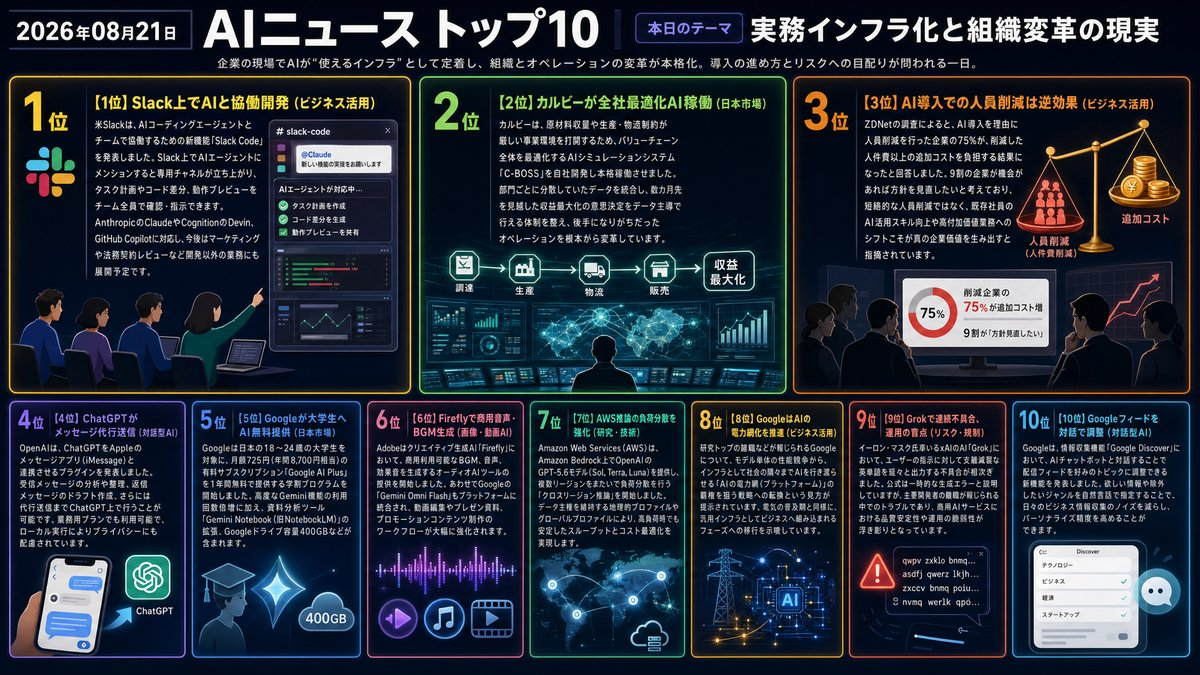
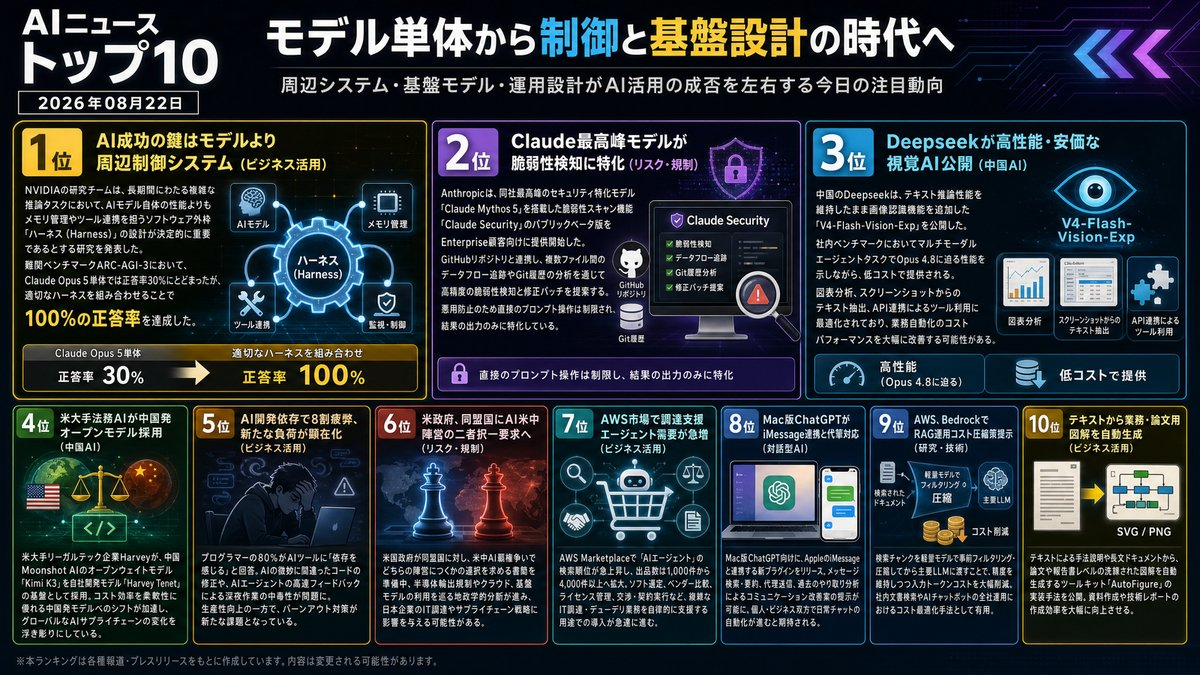
Morning Brief delivered [skip ci]

diff --git a/docs/index.html b/docs/index.html
@@ -12,16 +12,16 @@
     <!-- OGP_START -->
 <meta property="og:type" content="website">
 <meta property="og:site_name" content="AI ニュース TOP10">
-<meta property="og:title" content="実務インフラ化と組織変革の現実 | AI ニュース TOP10">
-<meta property="og:description" content="AIは単体機能から実務を支えるインフラへ進化しています。 本日のトップ: Slack上でAIと協働開発">
+<meta property="og:title" content="モデル単体から制御と基盤設計の時代へ | AI ニュース TOP10">
+<meta property="og:description" content="モデル性能競争から、周辺設計と実務適応へ重心がシフトしています。 本日のトップ: AI成功の鍵はモデルより周辺制御システム">
 <meta property="og:image" content="https://tadfuji.github.io/ai-news-bot/ogp_latest.jpg">
 <meta property="og:url" content="https://tadfuji.github.io/ai-news-bot/">
 <meta name="twitter:card" content="summary_large_image">
-<meta name="twitter:title" content="実務インフラ化と組織変革の現実 | AI ニュース TOP10">
-<meta name="twitter:description" content="AIは単体機能から実務を支えるインフラへ進化しています。">
+<meta name="twitter:title" content="モデル単体から制御と基盤設計の時代へ | AI ニュース TOP10">
+<meta name="twitter:description" content="モデル性能競争から、周辺設計と実務適応へ重心がシフトしています。">
 <meta name="twitter:image" content="https://tadfuji.github.io/ai-news-bot/ogp_latest.jpg">
-<meta name="description" content="AIは単体機能から実務を支えるインフラへ進化しています。 世界のAIニュースを毎朝日本語で厳選してお届け。">
-<script type="application/ld+json">{"@context": "https://schema.org", "@type": "ItemList", "name": "AI ニュース TOP10 — 実務インフラ化と組織変革の現実", "itemListElement": [{"@type": "ListItem", "position": 1, "name": "Slack、AIとチームで協働する「Slack Code」を発表　ClaudeやDevinを専用チャネルで操作", "url": "https://www.itmedia.co.jp/news/article/2608/21/2000000667/"}, {"@type": "ListItem", "position": 2, "name": "カルビー、AIを活用した全社最適化システム「C-BOSS」を本格稼働", "url": "https://monoist.itmedia.co.jp/mn/articles/2608/21/news046.html"}, {"@type": "ListItem", "position": 3, "name": "AIによる人員削減は逆効果？企業の75%がコスト増を実感と回答", "url": "https://www.zdnet.com/article/why-replacing-staff-with-ai-backfires-and-how-smart-leaders-generate-real-value-instead/"}, {"@type": "ListItem", "position": 4, "name": "ChatGPTにAppleメッセージ連携プラグインが登場、返信案作成や代行送信に対応", "url": "https://techcrunch.com/2026/08/20/chatgpt-can-now-send-texts-for-you-with-new-apple-messages-plugin/"}, {"@type": "ListItem", "position": 5, "name": "Googleが日本の大学生向けに「Google AI Plus」を1年間無料提供開始", "url": "https://www.gizmodo.jp/article/2df05f30-c414-480b-89f5-6a6b98d62fe4/"}, {"@type": "ListItem", "position": 6, "name": "Adobe Fireflyに音楽・音声・効果音のAI生成機能が追加、Gemini Omni Flashも統合", "url": "https://the-decoder.com/adobe-firefly-adds-ai-audio-tools-and-googles-gemini-omni-flash/"}, {"@type": "ListItem", "position": 7, "name": "AWS Bedrock、GPT-5.6モデルのリージョン間推論に対応し負荷耐性と処理性能を強化", "url": "https://aws.amazon.com/blogs/machine-learning/introducing-cross-region-inference-for-openai-gpt-5-6-models-on-amazon-bedrock/"}, {"@type": "ListItem", "position": 8, "name": "GoogleのAI戦略、「最強の知能」から社会を支える「AIの電力網」へシフトか", "url": "https://atmarkit.itmedia.co.jp/ait/articles/2608/21/news006.html"}, {"@type": "ListItem", "position": 9, "name": "xAIの「Grok」で意味不明な回答が連続する不具合が発生、LLM運用の盲点が浮き彫りに", "url": "https://www.techno-edge.net/article/2026/08/21/5410.html"}, {"@type": "ListItem", "position": 10, "name": "Google Discover、AI対話形式で好みの記事フィードを直接カスタマイズ可能に", "url": "https://www.theverge.com/tech/983088/google-discover-ai-chatbot-feed"}]}</script>
+<meta name="description" content="モデル性能競争から、周辺設計と実務適応へ重心がシフトしています。 世界のAIニュースを毎朝日本語で厳選してお届け。">
+<script type="application/ld+json">{"@context": "https://schema.org", "@type": "ItemList", "name": "AI ニュース TOP10 — モデル単体から制御と基盤設計の時代へ", "itemListElement": [{"@type": "ListItem", "position": 1, "name": "エヌビディア最新研究：AIエージェントの成否はモデル本体より「周辺制御システム（ハーネス）」で決まる", "url": "https://techcrunch.com/2026/08/21/nvidia-just-showed-that-the-harness-not-the-ai-model-is-now-the-real-hero/"}, {"@type": "ListItem", "position": 2, "name": "Anthropic、最高峰モデル「Claude Mythos 5」を企業向け脆弱性スキャナーに限定投入", "url": "https://www.marktechpost.com/2026/08/21/anthropic-brings-claude-mythos-5-to-claude-security/"}, {"@type": "ListItem", "position": 3, "name": "中国Deepseek、画像認識対応の軽量マルチモーダルモデル「V4-Flash-Vision-Exp」を公開", "url": "https://the-decoder.com/deepseek-releases-experimental-flash-vision-model-that-rivals-opus-4-8-on-agent-benchmarks/"}, {"@type": "ListItem", "position": 4, "name": "米法律AIスタートアップHarvey、中国発オープンウェイトモデル「Kimi K3」を基盤に採用", "url": "https://www.scmp.com/tech/tech-trends/article/3364827/openai-backed-legal-tech-firm-pivots-chinese-kimi-k3-open-weight-model?utm_source=rss_feed"}, {"@type": "ListItem", "position": 5, "name": "開発者の80%が「AIコーディングは依存性が高く疲弊する」と回答、新たなバーンアウトが浮き彫りに", "url": "https://www.zdnet.com/article/80-of-developers-find-ai-coding-more-addictive-than-helpful/"}, {"@type": "ListItem", "position": 6, "name": "米国政府、パートナー諸国に対しAI競争で米中いずれかの陣営選択を迫る書簡を準備", "url": "https://the-decoder.com/us-wants-to-force-partner-countries-to-choose-between-washington-and-beijing-in-the-ai-race/"}, {"@type": "ListItem", "position": 7, "name": "AWS MarketplaceでAIエージェントの需要が急増、調達やデューデリジェンスを自律化へ", "url": "https://www.zdnet.com/article/application-marketplaces-aws-ai-agents/"}, {"@type": "ListItem", "position": 8, "name": "Mac版ChatGPTにメッセージ連携プラグイン登場、会話分析や代筆が可能に", "url": "https://www.zdnet.com/article/chatgpts-new-mac-plugin-analyzed-my-imessages-and-i-found-it-surprisingly-useful/"}, {"@type": "ListItem", "position": 9, "name": "Amazon Bedrock、クエリ認識圧縮によりRAG（検索拡張生成）のコスト削減パターンを提示", "url": "https://aws.amazon.com/blogs/machine-learning/reduce-rag-costs-on-amazon-bedrock-with-query-aware-compression/"}, {"@type": "ListItem", "position": 10, "name": "テキストや論文から学術・ビジネス向け図解を自動生成するツール「AutoFigure」", "url": "https://www.marktechpost.com/2026/08/21/building-agentic-document-intelligence-pipelines-creating-scientific-figures-with-autofigure/"}]}</script>
 <!-- OGP_END -->
     <style>
         :root {
@@ -391,16 +391,16 @@
 
         <main id="news-container">
             <!-- PRERENDER_START -->
-<article class="news-card" data-category="ビジネス活用"><div style="display:flex;align-items:center;margin-bottom:5px;"><span class="news-rank">1</span><span class="news-category" data-category="ビジネス活用">ビジネス活用</span></div><div class="news-oneliner">💡 Slack上でAIと協働開発</div><h2 class="news-title">Slack、AIとチームで協働する「Slack Code」を発表　ClaudeやDevinを専用チャネルで操作</h2><p class="news-summary">米Slackは、AIコーディングエージェントとチームで協働するための新機能「Slack Code」を発表しました。Slack上でAIエージェントにメンションすると専用チャネルが立ち上がり、タスク計画やコード差分、動作プレビューをチーム全員で確認・指示できます。AnthropicのClaudeやCognitionのDevin、GitHub Copilotに対応し、今後はマーケティングや法務契約レビューなど開発以外の業務にも展開予定です。</p><div class="news-why">📌 なぜ重要？ チャットツール上でのAIエージェント共同作業が標準化され、チームの生産性構造が激変します。</div><div class="news-action">👉 今日の行動：自チームのチャットツールでAIエージェントをどう活用できるか検討してみましょう。</div><div class="news-meta"><span class="news-source">📰 ITmedia AI+</span><span class="news-link"><a href="https://www.itmedia.co.jp/news/article/2608/21/2000000667/" target="_blank" rel="noopener">→ 元記事を読む</a></span></div></article>
-<article class="news-card" data-category="日本市場"><div style="display:flex;align-items:center;margin-bottom:5px;"><span class="news-rank">2</span><span class="news-category" data-category="日本市場">日本市場</span></div><div class="news-oneliner">💡 カルビーが全社最適化AI稼働</div><h2 class="news-title">カルビー、AIを活用した全社最適化システム「C-BOSS」を本格稼働</h2><p class="news-summary">カルビーは、原材料収量や生産・物流制約が厳しい事業環境を打開するため、バリューチェーン全体を最適化するAIシミュレーションシステム「C-BOSS」を自社開発し本格稼働させました。部門ごとに分散していたデータを統合し、数カ月先を見越した収益最大化の意思決定をデータ主導で行える体制を整え、後手になりがちだったオペレーションを根本から変革しています。</p><div class="news-why">📌 なぜ重要？ 部分最適にとどまらないサプライチェーン全体のAI最適化は、日本企業のDXにおける先進モデルとなります。</div><div class="news-action">👉 今日の行動：自社の部門間データ連携における課題を1つ洗い出してみましょう。</div><div class="news-meta"><span class="news-source">📰 ITmedia AI+</span><span class="news-link"><a href="https://monoist.itmedia.co.jp/mn/articles/2608/21/news046.html" target="_blank" rel="noopener">→ 元記事を読む</a></span></div></article>
-<article class="news-card" data-category="ビジネス活用"><div style="display:flex;align-items:center;margin-bottom:5px;"><span class="news-rank">3</span><span class="news-category" data-category="ビジネス活用">ビジネス活用</span></div><div class="news-oneliner">💡 AI導入での人員削減は逆効果</div><h2 class="news-title">AIによる人員削減は逆効果？企業の75%がコスト増を実感と回答</h2><p class="news-summary">ZDNetの調査によると、AI導入を理由に人員削減を行った企業の75%が、削減した人件費以上の追加コストを負担する結果になったと回答しました。9割の企業が機会があれば方針を見直したいと考えており、短絡的な人員削減ではなく、既存社員のAI活用スキル向上や高付加価値業務へのシフトこそが真の企業価値を生み出すと指摘されています。</p><div class="news-why">📌 なぜ重要？ 単純なコストカットではなく、既存人材のAIリスキリングと付加価値創出が重要です。</div><div class="news-action">👉 今日の行動：自チームの業務でAIに任せる部分と人間が注力すべき強みを整理してみましょう。</div><div class="news-meta"><span class="news-source">📰 ZDNet AI</span><span class="news-link"><a href="https://www.zdnet.com/article/why-replacing-staff-with-ai-backfires-and-how-smart-leaders-generate-real-value-instead/" target="_blank" rel="noopener">→ 元記事を読む</a></span></div></article>
-<article class="news-card" data-category="対話型AI"><div style="display:flex;align-items:center;margin-bottom:5px;"><span class="news-rank">4</span><span class="news-category" data-category="対話型AI">対話型AI</span></div><div class="news-oneliner">💡 ChatGPTがメッセージ代行送信</div><h2 class="news-title">ChatGPTにAppleメッセージ連携プラグインが登場、返信案作成や代行送信に対応</h2><p class="news-summary">OpenAIは、ChatGPTをAppleのメッセージアプリ（iMessage）と連携させるプラグインを発表しました。受信メッセージの分析や整理、返信メッセージのドラフト作成、さらには代行送信までChatGPT上で行うことが可能です。業務用プランでも利用可能で、ローカル実行によりプライバシーにも配慮されています。</p><div class="news-why">📌 なぜ重要？ 日常のコミュニケーションツールとAIの融合により、メッセージ対応の負荷が大幅に軽減されます。</div><div class="news-action">👉 今日の行動：毎日定型で行っているメッセージ返信パターンを書き出してみましょう。</div><div class="news-meta"><span class="news-source">📰 TechCrunch AI</span><span class="news-link"><a href="https://techcrunch.com/2026/08/20/chatgpt-can-now-send-texts-for-you-with-new-apple-messages-plugin/" target="_blank" rel="noopener">→ 元記事を読む</a></span></div></article>
-<article class="news-card" data-category="日本市場"><div style="display:flex;align-items:center;margin-bottom:5px;"><span class="news-rank">5</span><span class="news-category" data-category="日本市場">日本市場</span></div><div class="news-oneliner">💡 Googleが大学生へAI無料提供</div><h2 class="news-title">Googleが日本の大学生向けに「Google AI Plus」を1年間無料提供開始</h2><p class="news-summary">Googleは日本の18〜24歳の大学生を対象に、月額725円（年間8,700円相当）の有料サブスクリプション「Google AI Plus」を1年間無料で提供する学割プログラムを開始しました。高度なGemini機能の利用回数倍増に加え、資料分析ツール「Gemini Notebook（旧NotebookLM）」の拡張、Googleドライブ容量400GBなどが含まれます。</p><div class="news-why">📌 なぜ重要？ 若手人材のAIネイティブ化が加速し、数年後の採用や組織文化に大きな影響を与えます。</div><div class="news-action">👉 今日の行動：身近な学生や新入社員がどんなAIツールを使っているか関心を持ってみましょう。</div><div class="news-meta"><span class="news-source">📰 Gizmodo Japan</span><span class="news-link"><a href="https://www.gizmodo.jp/article/2df05f30-c414-480b-89f5-6a6b98d62fe4/" target="_blank" rel="noopener">→ 元記事を読む</a></span></div></article>
-<article class="news-card" data-category="画像・動画AI"><div style="display:flex;align-items:center;margin-bottom:5px;"><span class="news-rank">6</span><span class="news-category" data-category="画像・動画AI">画像・動画AI</span></div><div class="news-oneliner">💡 Fireflyで商用音声・BGM生成</div><h2 class="news-title">Adobe Fireflyに音楽・音声・効果音のAI生成機能が追加、Gemini Omni Flashも統合</h2><p class="news-summary">Adobeはクリエイティブ生成AI「Firefly」において、商用利用可能なBGM、音声、効果音を生成するオーディオAIツールの提供を開始しました。あわせてGoogleの「Gemini Omni Flash」もプラットフォームに統合され、動画編集やプレゼン資料、プロモーションコンテンツ制作のワークフローが大幅に強化されます。</p><div class="news-why">📌 なぜ重要？ 画像だけでなく音声・効果音まで商用利用可能なAI生成で完結し、クリエイティブ制作コストが激減します。</div><div class="news-action">👉 今日の行動：プレゼン資料やPR動画にAI生成音声・BGMを取り入れられるか確認してみましょう。</div><div class="news-meta"><span class="news-source">📰 The Decoder</span><span class="news-link"><a href="https://the-decoder.com/adobe-firefly-adds-ai-audio-tools-and-googles-gemini-omni-flash/" target="_blank" rel="noopener">→ 元記事を読む</a></span></div></article>
-<article class="news-card" data-category="研究・技術"><div style="display:flex;align-items:center;margin-bottom:5px;"><span class="news-rank">7</span><span class="news-category" data-category="研究・技術">研究・技術</span></div><div class="news-oneliner">💡 AWS推論の負荷分散を強化</div><h2 class="news-title">AWS Bedrock、GPT-5.6モデルのリージョン間推論に対応し負荷耐性と処理性能を強化</h2><p class="news-summary">Amazon Web Services（AWS）は、Amazon Bedrock上でOpenAIのGPT-5.6モデル（Sol, Terra, Luna）を提供し、複数リージョンをまたいで負荷分散を行う「クロスリージョン推論」を開始しました。データ主権を維持する地理的プロファイルやグローバルプロファイルにより、高負荷時でも安定したスループットとコスト最適化を実現します。</p><div class="news-why">📌 なぜ重要？ 大規模モデルを安全かつ安定して本番運用するためのエンタープライズ基盤が整ってきています。</div><div class="news-action">👉 今日の行動：自社システムのAI推論レイテンシや冗長化体制を確認してみましょう。</div><div class="news-meta"><span class="news-source">📰 AWS Machine Learning</span><span class="news-link"><a href="https://aws.amazon.com/blogs/machine-learning/introducing-cross-region-inference-for-openai-gpt-5-6-models-on-amazon-bedrock/" target="_blank" rel="noopener">→ 元記事を読む</a></span></div></article>
-<article class="news-card" data-category="ビジネス活用"><div style="display:flex;align-items:center;margin-bottom:5px;"><span class="news-rank">8</span><span class="news-category" data-category="ビジネス活用">ビジネス活用</span></div><div class="news-oneliner">💡 GoogleはAIの電力網化を推進</div><h2 class="news-title">GoogleのAI戦略、「最強の知能」から社会を支える「AIの電力網」へシフトか</h2><p class="news-summary">研究トップの離職などが報じられるGoogleについて、モデル単体の性能競争から、インフラとして社会の隅々までAIを行き渡らせる「AIの電力網（プラットフォーム）」の覇権を狙う戦略への転換という見方が提示されています。電気の普及期と同様に、汎用インフラとしてビジネスへ組み込まれるフェーズへの移行を示唆しています。</p><div class="news-why">📌 なぜ重要？ モデル性能の単体競争から社会基盤としてのインフラ競争へフェーズが移行しています。</div><div class="news-action">👉 今日の行動：自社の業務基盤としてどのAIエコシステムを採用すべきか長期視点で整理しましょう。</div><div class="news-meta"><span class="news-source">📰 ITmedia AI+</span><span class="news-link"><a href="https://atmarkit.itmedia.co.jp/ait/articles/2608/21/news006.html" target="_blank" rel="noopener">→ 元記事を読む</a></span></div></article>
-<article class="news-card" data-category="リスク・規制"><div style="display:flex;align-items:center;margin-bottom:5px;"><span class="news-rank">9</span><span class="news-category" data-category="リスク・規制">リスク・規制</span></div><div class="news-oneliner">💡 Grokで連続不具合、運用の盲点</div><h2 class="news-title">xAIの「Grok」で意味不明な回答が連続する不具合が発生、LLM運用の盲点が浮き彫りに</h2><p class="news-summary">イーロン・マスク氏率いるxAIのAI「Grok」において、ユーザーの指示に対して支離滅裂な英単語を延々と出力する不具合が相次ぎました。公式は一時的な生成エラーと説明していますが、主要開発者の離職が報じられる中でのトラブルであり、商用AIサービスにおける品質安定性や運用の脆弱性が浮き彫りとなっています。</p><div class="news-why">📌 なぜ重要？ 商用AIの品質急変や運用障害リスクに備え、単一モデル依存の回避や監視設計が必須です。</div><div class="news-action">👉 今日の行動：利用中のAIサービスがダウンした際の代替手段（バックアップモデル）を準備しましょう。</div><div class="news-meta"><span class="news-source">📰 TechnoEdge</span><span class="news-link"><a href="https://www.techno-edge.net/article/2026/08/21/5410.html" target="_blank" rel="noopener">→ 元記事を読む</a></span></div></article>
-<article class="news-card" data-category="対話型AI"><div style="display:flex;align-items:center;margin-bottom:5px;"><span class="news-rank">10</span><span class="news-category" data-category="対話型AI">対話型AI</span></div><div class="news-oneliner">💡 Googleフィードを対話で調整</div><h2 class="news-title">Google Discover、AI対話形式で好みの記事フィードを直接カスタマイズ可能に</h2><p class="news-summary">Googleは、情報収集機能「Google Discover」において、AIチャットボットと対話することで配信フィードを好みのトピックに調整できる新機能を発表しました。欲しい情報や除外したいジャンルを自然言語で指定することで、日々のビジネス情報収集のノイズを減らし、パーソナライズ精度を高めることができます。</p><div class="news-why">📌 なぜ重要？ 自然言語で情報収集のフィルタリングを最適化し、必要な業界動向を効率的にキャッチできます。</div><div class="news-action">👉 今日の行動：毎朝の情報収集ソースを見直し、AIを活用した効率化を試してみましょう。</div><div class="news-meta"><span class="news-source">📰 The Verge AI</span><span class="news-link"><a href="https://www.theverge.com/tech/983088/google-discover-ai-chatbot-feed" target="_blank" rel="noopener">→ 元記事を読む</a></span></div></article>
+<article class="news-card" data-category="ビジネス活用"><div style="display:flex;align-items:center;margin-bottom:5px;"><span class="news-rank">1</span><span class="news-category" data-category="ビジネス活用">ビジネス活用</span></div><div class="news-oneliner">💡 AI成功の鍵はモデルより周辺制御システム</div><h2 class="news-title">エヌビディア最新研究：AIエージェントの成否はモデル本体より「周辺制御システム（ハーネス）」で決まる</h2><p class="news-summary">NVIDIAの研究チームは、長期間にわたる複雑な推論タスクにおいて、AIモデル自体の性能よりもメモリ管理やツール連携を担うソフトウェア外枠「ハーネス（Harness）」の設計が決定的に重要であるとする研究を発表した。難関ベンチマークARC-AGI-3において、Claude Opus 5単体では正答率30%にとどまったが、適切なハーネスを組み合わせることで100%の正答率を達成した。今後の企業向けAI導入において、モデルの選定以上にワークフロー設計や監視機能の重要性が高まることを示唆している。</p><div class="news-why">📌 なぜ重要？ 最新モデルの導入だけでなく、メモリやツール連携などの運用設計（ハーネス）への投資が成否を分けます。</div><div class="news-action">👉 今日の行動：自社で検討中のAI施策で、前後のデータ連携やエラー監視フローが設計されているか確認してください。</div><div class="news-meta"><span class="news-source">📰 TechCrunch AI</span><span class="news-link"><a href="https://techcrunch.com/2026/08/21/nvidia-just-showed-that-the-harness-not-the-ai-model-is-now-the-real-hero/" target="_blank" rel="noopener">→ 元記事を読む</a></span></div></article>
+<article class="news-card" data-category="リスク・規制"><div style="display:flex;align-items:center;margin-bottom:5px;"><span class="news-rank">2</span><span class="news-category" data-category="リスク・規制">リスク・規制</span></div><div class="news-oneliner">💡 Claude最高峰モデルが脆弱性検知に特化</div><h2 class="news-title">Anthropic、最高峰モデル「Claude Mythos 5」を企業向け脆弱性スキャナーに限定投入</h2><p class="news-summary">Anthropicは、同社最高峰のセキュリティ特化モデル「Claude Mythos 5」を搭載した脆弱性スキャン機能「Claude Security」のパブリックベータ版をEnterprise顧客向けに提供開始した。GitHubリポジトリと連携し、複数ファイル間のデータフロー追跡やGit履歴の分析を通じて高精度の脆弱性検知と修正パッチを提案する。悪用防止のため直接のプロンプト操作は制限され、結果の出力のみに特化している。</p><div class="news-why">📌 なぜ重要？ 高度なフロンティアモデルが汎用チャットではなく、特化型エンタープライズセキュリティ機能として安全に提供される流れを示しています。</div><div class="news-action">👉 今日の行動：開発チームのコードレビューや脆弱性検査プロセスにAIツールを組み込む余地を洗い出してください。</div><div class="news-meta"><span class="news-source">📰 MarkTechPost</span><span class="news-link"><a href="https://www.marktechpost.com/2026/08/21/anthropic-brings-claude-mythos-5-to-claude-security/" target="_blank" rel="noopener">→ 元記事を読む</a></span></div></article>
+<article class="news-card" data-category="中国AI"><div style="display:flex;align-items:center;margin-bottom:5px;"><span class="news-rank">3</span><span class="news-category" data-category="中国AI">中国AI</span></div><div class="news-oneliner">💡 Deepseekが高性能・安価な視覚AI公開</div><h2 class="news-title">中国Deepseek、画像認識対応の軽量マルチモーダルモデル「V4-Flash-Vision-Exp」を公開</h2><p class="news-summary">中国のDeepseekは、テキスト推論性能を維持したまま画像認識機能を追加した「V4-Flash-Vision-Exp」を公開した。社内ベンチマークにおいてマルチモーダルエージェントタスクでOpus 4.8に迫る性能を示しながら、低コストで提供される。図表分析、スクリーンショットからのテキスト抽出、API連携によるツール利用に最適化されており、業務自動化のコストパフォーマンスを大幅に改善する可能性がある。</p><div class="news-why">📌 なぜ重要？ 視覚推論エージェントのコストが劇的に下がり、図表やUI操作を伴う業務自動化の費用対効果が跳ね上がります。</div><div class="news-action">👉 今日の行動：画面キャプチャやPDF図表の読み取りなど、画像解析がボトルネックだった業務をリストアップしてみましょう。</div><div class="news-meta"><span class="news-source">📰 The Decoder</span><span class="news-link"><a href="https://the-decoder.com/deepseek-releases-experimental-flash-vision-model-that-rivals-opus-4-8-on-agent-benchmarks/" target="_blank" rel="noopener">→ 元記事を読む</a></span></div></article>
+<article class="news-card" data-category="中国AI"><div style="display:flex;align-items:center;margin-bottom:5px;"><span class="news-rank">4</span><span class="news-category" data-category="中国AI">中国AI</span></div><div class="news-oneliner">💡 米大手法務AIが中国発オープンモデル採用</div><h2 class="news-title">米法律AIスタートアップHarvey、中国発オープンウェイトモデル「Kimi K3」を基盤に採用</h2><p class="news-summary">OpenAIや著名VCから出資を受ける米大手リーガルテック企業Harveyが、自社開発モデル「Harvey Tenet」の基盤として中国Moonshot AIのオープンウェイトモデル「Kimi K3」を採用したことが明らかになった。開発コストの高騰を背景に、欧米の有力スタートアップがコスト効率と柔軟性に優れる中国発の基盤モデルへシフトする動きを示しており、グローバルなAIサプライチェーンの変化を浮き彫りにしている。</p><div class="news-why">📌 なぜ重要？ 米国の有力企業でもコストと柔軟性から中国系オープンモデルを選択する実利主義が広がっています。</div><div class="news-action">👉 今日の行動：社内AIサービスの選定基準として、独占モデルだけでなくオープンウェイトモデルの活用可能性を再評価してください。</div><div class="news-meta"><span class="news-source">📰 SCMP Technology</span><span class="news-link"><a href="https://www.scmp.com/tech/tech-trends/article/3364827/openai-backed-legal-tech-firm-pivots-chinese-kimi-k3-open-weight-model?utm_source=rss_feed" target="_blank" rel="noopener">→ 元記事を読む</a></span></div></article>
+<article class="news-card" data-category="ビジネス活用"><div style="display:flex;align-items:center;margin-bottom:5px;"><span class="news-rank">5</span><span class="news-category" data-category="ビジネス活用">ビジネス活用</span></div><div class="news-oneliner">💡 AI開発依存で8割疲弊、新たな負荷が顕在化</div><h2 class="news-title">開発者の80%が「AIコーディングは依存性が高く疲弊する」と回答、新たなバーンアウトが浮き彫りに</h2><p class="news-summary">Coddy Techの調査によると、プログラマーの80%がAIツールの利用について「業務上の優位性よりも依存を感じる」と回答した。AIが提示する「一見正しそうだが微妙に間違っているコード」の修正に追われることや、AIエージェントの高速なフィードバックループにより深夜まで作業を続けてしまう中毒性が問題視されており、生産性向上の一方で従業員のメンタルヘルスや燃え尽き症候群（バーンアウト）対策が新たな課題となっている。</p><div class="news-why">📌 なぜ重要？ AI導入による生産性向上と引き換えに、コード検証負荷や過剰労働によるバーンアウトを防ぐ労務管理が不可欠です。</div><div class="news-action">👉 今日の行動：自身やチームがAIツールの出力確認にどれだけ時間を費やしているか、作業時間を記録・把握してみてください。</div><div class="news-meta"><span class="news-source">📰 ZDNet AI</span><span class="news-link"><a href="https://www.zdnet.com/article/80-of-developers-find-ai-coding-more-addictive-than-helpful/" target="_blank" rel="noopener">→ 元記事を読む</a></span></div></article>
+<article class="news-card" data-category="リスク・規制"><div style="display:flex;align-items:center;margin-bottom:5px;"><span class="news-rank">6</span><span class="news-category" data-category="リスク・規制">リスク・規制</span></div><div class="news-oneliner">💡 米政府、同盟国にAI米中陣営の二者択一要求へ</div><h2 class="news-title">米国政府、パートナー諸国に対しAI競争で米中いずれかの陣営選択を迫る書簡を準備</h2><p class="news-summary">ロイターの報道によると、米国政府は同盟国やパートナー諸国に対し、米中間のAI覇権争いにおいてどちらの陣営につくかの選択を求める書簡を準備しているという。先端半導体の輸出規制やクラウドインフラ、AI基盤モデルの利用を巡る地政学的分断が進む可能性があり、日米双方やグローバル市場で事業を展開する日本企業のITインフラ調達やサプライチェーン戦略に影響を与える可能性がある。</p><div class="news-why">📌 なぜ重要？ 基盤モデルやクラウドの選定が地政学的リスクと直結し、将来的な調達規制に備えた冗長化が必要になります。</div><div class="news-action">👉 今日の行動：自社が利用・依存しているクラウドやAIモデルの提供元国籍とサプライチェーンリスクを整理してください。</div><div class="news-meta"><span class="news-source">📰 The Decoder</span><span class="news-link"><a href="https://the-decoder.com/us-wants-to-force-partner-countries-to-choose-between-washington-and-beijing-in-the-ai-race/" target="_blank" rel="noopener">→ 元記事を読む</a></span></div></article>
+<article class="news-card" data-category="ビジネス活用"><div style="display:flex;align-items:center;margin-bottom:5px;"><span class="news-rank">7</span><span class="news-category" data-category="ビジネス活用">ビジネス活用</span></div><div class="news-oneliner">💡 AWS市場で調達支援エージェント需要が急増</div><h2 class="news-title">AWS MarketplaceでAIエージェントの需要が急増、調達やデューデリジェンスを自律化へ</h2><p class="news-summary">AWS Marketplaceにおいて「AIエージェント」の検索順位が急上昇し、出品数は前年の1,000件から4,000件以上へと拡大している。AIエージェントは単なる業務自動化にとどまらず、ソフトウェアの選定、ベンダー比較、ライセンス管理、調達プロセスの交渉や契約実行といった複雑なIT調達・デューデリジェンス業務を自律的に支援する用途での導入が急速に進んでいる。</p><div class="news-why">📌 なぜ重要？ 調達やベンダー選定といった間接部門の複雑な意思決定プロセスにもエージェント自律化の波が押し寄せています。</div><div class="news-action">👉 今日の行動：自社の購買・調達手続きで定型化・比較分析が可能なステップを1つ選定してみてください。</div><div class="news-meta"><span class="news-source">📰 ZDNet AI</span><span class="news-link"><a href="https://www.zdnet.com/article/application-marketplaces-aws-ai-agents/" target="_blank" rel="noopener">→ 元記事を読む</a></span></div></article>
+<article class="news-card" data-category="対話型AI"><div style="display:flex;align-items:center;margin-bottom:5px;"><span class="news-rank">8</span><span class="news-category" data-category="対話型AI">対話型AI</span></div><div class="news-oneliner">💡 Mac版ChatGPTがiMessage連携と代筆対応</div><h2 class="news-title">Mac版ChatGPTにメッセージ連携プラグイン登場、会話分析や代筆が可能に</h2><p class="news-summary">OpenAIはMac版ChatGPT向けに、AppleのiMessageと連携する新プラグインをリリースした。ChatGPTから直接メッセージを検索・要約したり、代理でメッセージを送信したりできるほか、過去のやり取りを分析してより円滑なコミュニケーション改善案を提示させることが可能となる。個人向け・ビジネス向け双方で日常的なチャットツールの操作や振り返りの自動化が進むと期待される。</p><div class="news-why">📌 なぜ重要？ OS標準メッセージ機能との統合により、AIがパーソナルアシスタントとして直接コミュニケーションを代行する時代が身近になります。</div><div class="news-action">👉 今日の行動：チャットやメール返信の下書き作成に生成AIを積極的に活用し、定型連絡の省力化を試みてください。</div><div class="news-meta"><span class="news-source">📰 ZDNet AI</span><span class="news-link"><a href="https://www.zdnet.com/article/chatgpts-new-mac-plugin-analyzed-my-imessages-and-i-found-it-surprisingly-useful/" target="_blank" rel="noopener">→ 元記事を読む</a></span></div></article>
+<article class="news-card" data-category="研究・技術"><div style="display:flex;align-items:center;margin-bottom:5px;"><span class="news-rank">9</span><span class="news-category" data-category="研究・技術">研究・技術</span></div><div class="news-oneliner">💡 AWS、BedrockでRAG運用コスト圧縮策提示</div><h2 class="news-title">Amazon Bedrock、クエリ認識圧縮によりRAG（検索拡張生成）のコスト削減パターンを提示</h2><p class="news-summary">AWSは、Amazon Bedrock上でRAGシステムを運用する際の入力トークンコストを大幅に削減するアーキテクチャを解説した。検索されたドキュメントチャンクを軽量モデルで事前フィルタリング・圧縮してから主要LLMに渡すことで、回答精度を維持しながらAPIコストを削減できる。社内文書検索やAIチャットボットを全社規模で運用する際のコスト最適化手法として有用である。</p><div class="news-why">📌 なぜ重要？ 全社規模で社内ナレッジRAGを展開する際、トークンコスト抑制と精度維持を両立させる実践的パターンが確立されつつあります。</div><div class="news-action">👉 今日の行動：社内RAGシステムのトークン消費量と月額コスト推移をエンジニア担当者と共有・確認してください。</div><div class="news-meta"><span class="news-source">📰 AWS Machine Learning</span><span class="news-link"><a href="https://aws.amazon.com/blogs/machine-learning/reduce-rag-costs-on-amazon-bedrock-with-query-aware-compression/" target="_blank" rel="noopener">→ 元記事を読む</a></span></div></article>
+<article class="news-card" data-category="ビジネス活用"><div style="display:flex;align-items:center;margin-bottom:5px;"><span class="news-rank">10</span><span class="news-category" data-category="ビジネス活用">ビジネス活用</span></div><div class="news-oneliner">💡 テキストから業務・論文用図解を自動生成</div><h2 class="news-title">テキストや論文から学術・ビジネス向け図解を自動生成するツール「AutoFigure」</h2><p class="news-summary">テキストによる手法説明や長文ドキュメントから、論文や報告書レベルの洗練された科学・技術図解（SVG/PNG形式）を自動生成するツールキット「AutoFigure」の実装手法が公開された。複雑なパイプラインやシステム構成図をテキストプロンプトから一貫したデザインスタイルで自動作成でき、資料作成や技術レポートの作成効率を大幅に引き上げることが期待される。</p><div class="news-why">📌 なぜ重要？ ドキュメント作成において時間のかかる構成図やフローチャート作成の完全自動化が進み、資料作成の生産性が向上します。</div><div class="news-action">👉 今日の行動：次回作成する提案書や報告書のシステム図を、プロンプトベースの自動生成ツールで試作してみてください。</div><div class="news-meta"><span class="news-source">📰 MarkTechPost</span><span class="news-link"><a href="https://www.marktechpost.com/2026/08/21/building-agentic-document-intelligence-pipelines-creating-scientific-figures-with-autofigure/" target="_blank" rel="noopener">→ 元記事を読む</a></span></div></article>
 <!-- PRERENDER_END -->
         </main>
 
